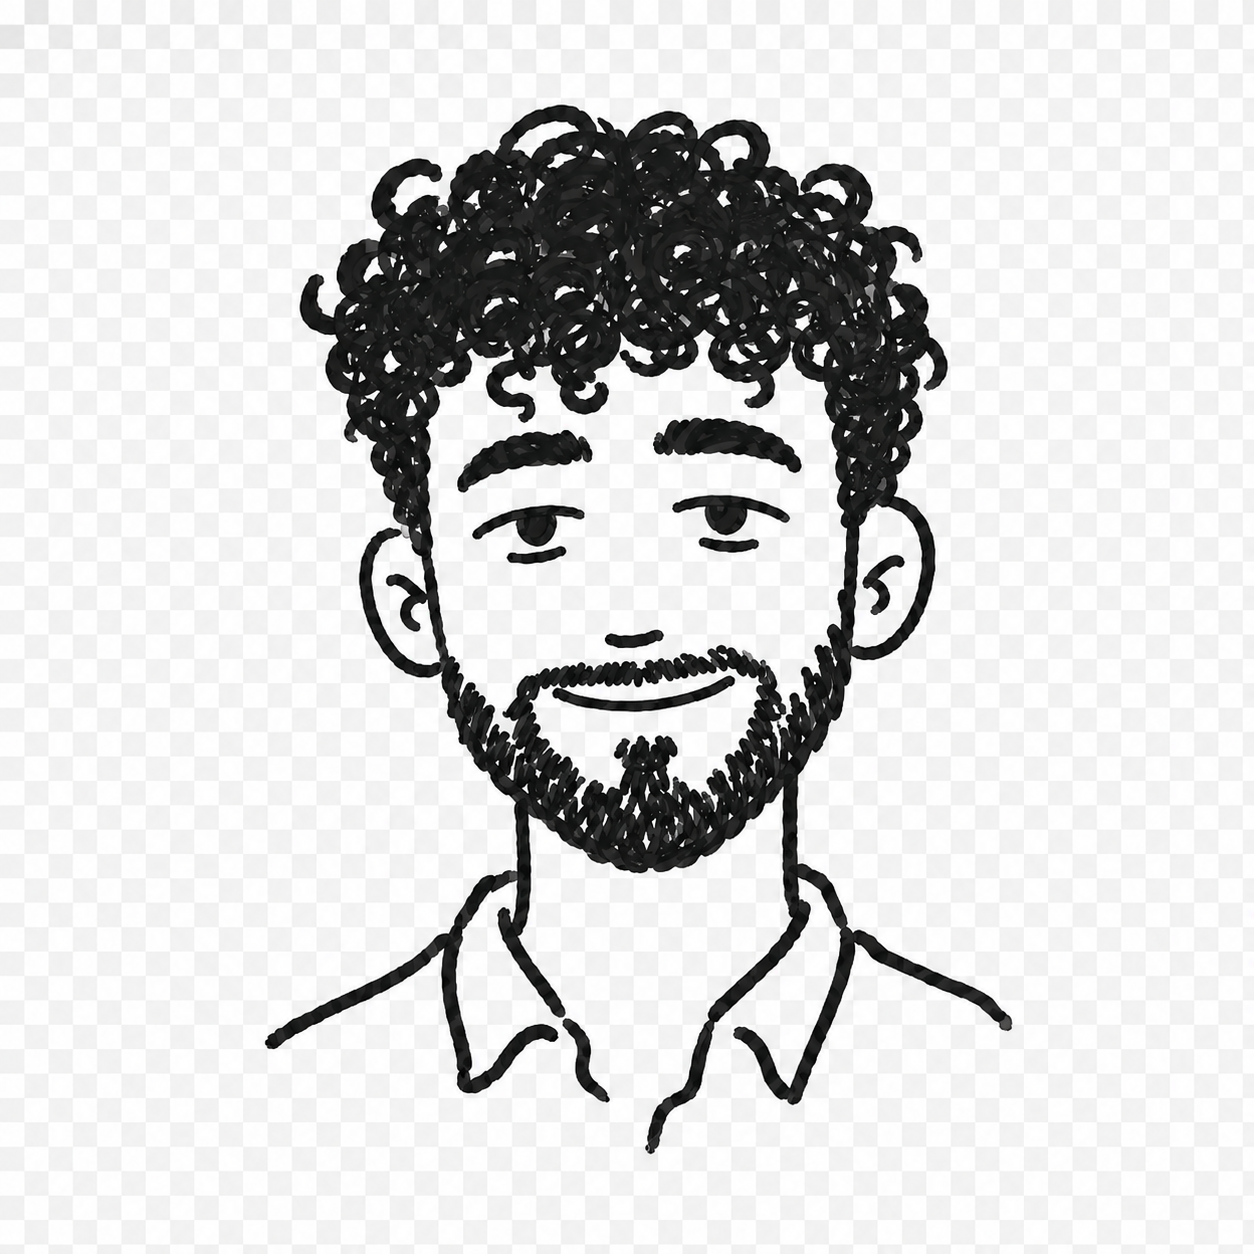
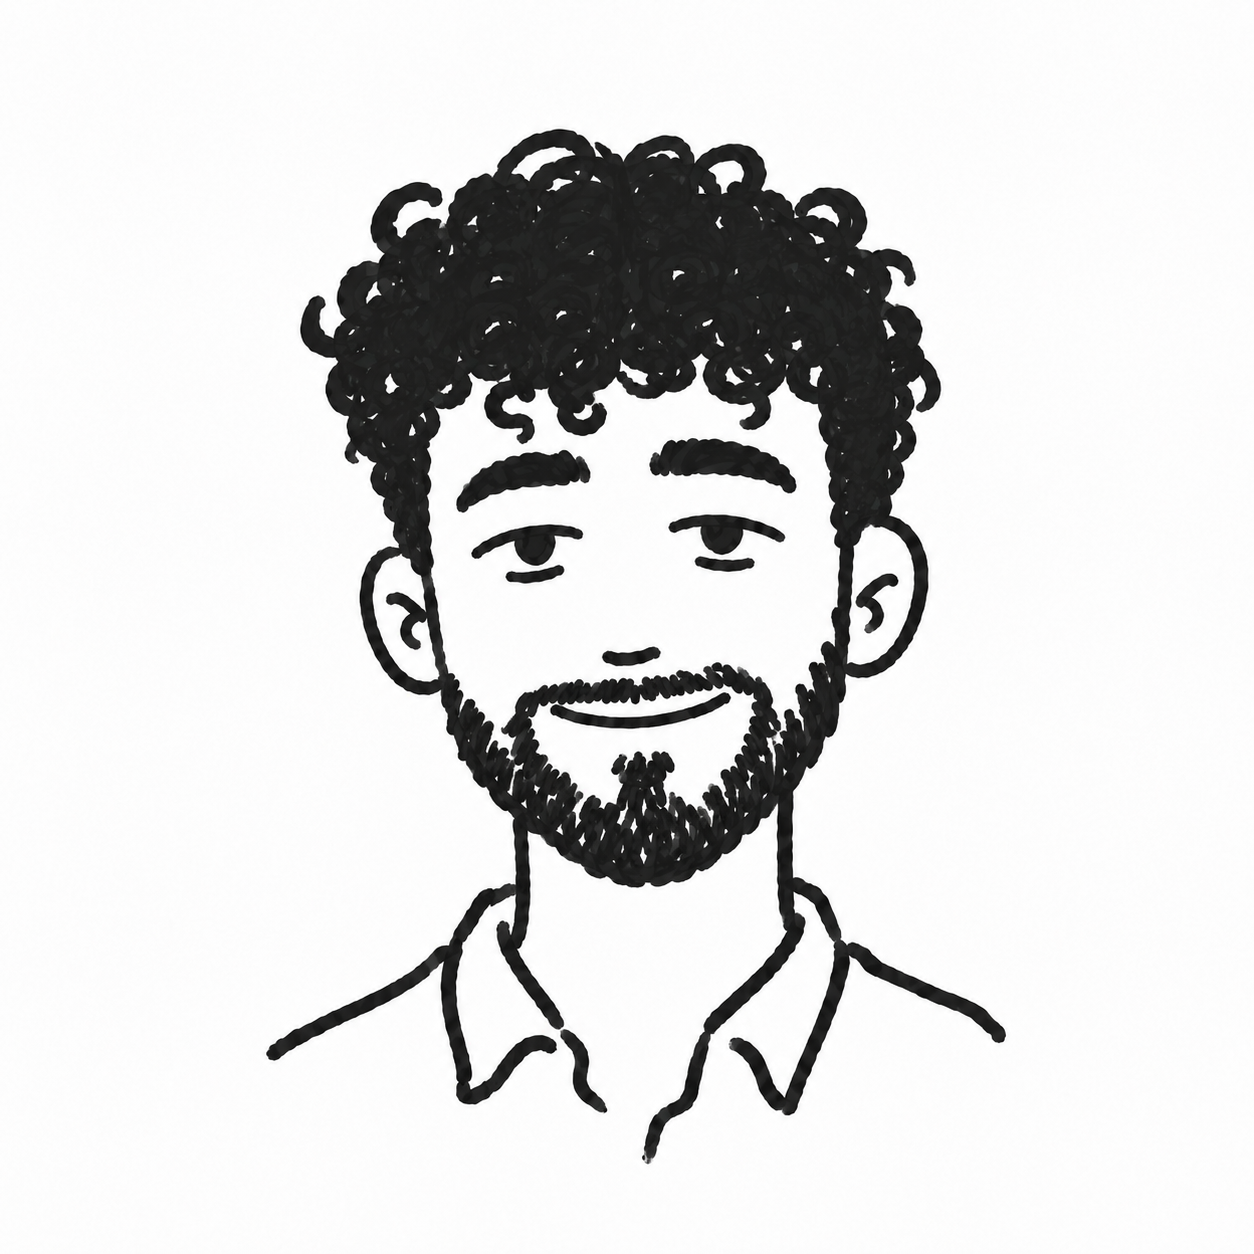
Rework hero into a two-column layout with a larger portrait
Moves the avatar next to the copy instead of stacked above it, uses
next/image for the portrait, and picks up the latest avatar file.

Changed region(s): [[0.2177, 0.0622, 0.8086, 0.9019], [0.5287, 0.8397, 0.5598, 0.9019], [0.4976, 0.9019, 0.5287, 0.933]]

diff --git a/src/components/hero.tsx b/src/components/hero.tsx
@@ -1,9 +1,9 @@
 "use client";
 
+import Image from "next/image";
 import { motion, type Variants } from "framer-motion";
 import { hero } from "@/content";
 import { SocialIcon } from "@/components/social-icon";
-import { withBasePath } from "@/lib/utils";
 
 const EASE_OUT = [0.16, 1, 0.3, 1] as const;
 
@@ -35,48 +35,54 @@ export function Hero() {
         variants={container}
         initial="hidden"
         animate="show"
-        className="mx-auto flex max-w-content flex-col gap-6"
+        className="mx-auto grid max-w-content items-center gap-10 lg:grid-cols-[1.3fr_1fr] lg:gap-16"
       >
-        {hero.avatarUrl && (
-          <motion.img
+        <div className="order-2 flex flex-col gap-6 lg:order-1">
+          <motion.span variants={item} className="text-sm font-medium uppercase tracking-[0.25em] text-accent">
+            {hero.role} · {hero.location}
+          </motion.span>
+
+          <motion.h1
             variants={item}
-            src={withBasePath(hero.avatarUrl)}
-            alt={hero.name}
-            className="h-24 w-24 rounded-full border border-border object-cover sm:h-28 sm:w-28"
-          />
+            className="max-w-3xl font-display text-4xl leading-[1.1] text-fg text-balance sm:text-6xl"
+          >
+            {hero.name}
+          </motion.h1>
+
+          <motion.div variants={item} className="flex max-w-2xl flex-col gap-4 text-lg leading-relaxed text-fg-muted sm:text-xl">
+            {hero.valueProp.map((paragraph) => (
+              <p key={paragraph}>{paragraph}</p>
+            ))}
+          </motion.div>
+
+          <motion.div variants={item} className="flex items-center gap-4 pt-2">
+            {hero.socials.map((social) => (
+              <a
+                key={social.label}
+                href={social.href}
+                target={social.icon === "email" ? undefined : "_blank"}
+                rel={social.icon === "email" ? undefined : "noreferrer"}
+                aria-label={social.label}
+                className="inline-flex h-10 w-10 items-center justify-center rounded-full border border-border text-fg-muted transition-colors hover:border-accent hover:text-accent"
+              >
+                <SocialIcon icon={social.icon} />
+              </a>
+            ))}
+          </motion.div>
+        </div>
+
+        {hero.avatarUrl && (
+          <motion.div variants={item} className="order-1 flex justify-center lg:order-2 lg:justify-end">
+            <Image
+              src={hero.avatarUrl}
+              alt={hero.name}
+              width={320}
+              height={320}
+              priority
+              className="h-48 w-48 rounded-full border border-border object-cover sm:h-64 sm:w-64 lg:h-80 lg:w-80"
+            />
+          </motion.div>
         )}
-
-        <motion.span variants={item} className="text-sm font-medium uppercase tracking-[0.25em] text-accent">
-          {hero.role} · {hero.location}
-        </motion.span>
-
-        <motion.h1
-          variants={item}
-          className="max-w-3xl font-display text-4xl leading-[1.1] text-fg text-balance sm:text-6xl"
-        >
-          {hero.name}
-        </motion.h1>
-
-        <motion.div variants={item} className="flex max-w-2xl flex-col gap-4 text-lg leading-relaxed text-fg-muted sm:text-xl">
-          {hero.valueProp.map((paragraph) => (
-            <p key={paragraph}>{paragraph}</p>
-          ))}
-        </motion.div>
-
-        <motion.div variants={item} className="flex items-center gap-4 pt-2">
-          {hero.socials.map((social) => (
-            <a
-              key={social.label}
-              href={social.href}
-              target={social.icon === "email" ? undefined : "_blank"}
-              rel={social.icon === "email" ? undefined : "noreferrer"}
-              aria-label={social.label}
-              className="inline-flex h-10 w-10 items-center justify-center rounded-full border border-border text-fg-muted transition-colors hover:border-accent hover:text-accent"
-            >
-              <SocialIcon icon={social.icon} />
-            </a>
-          ))}
-        </motion.div>
       </motion.div>
     </section>
   );
